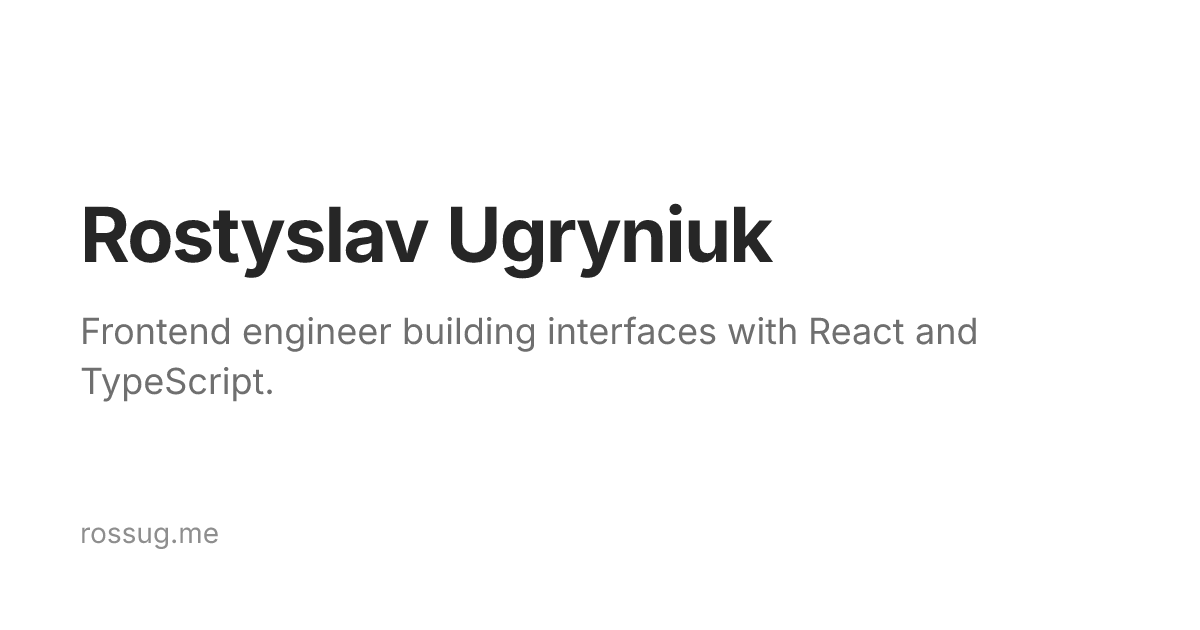
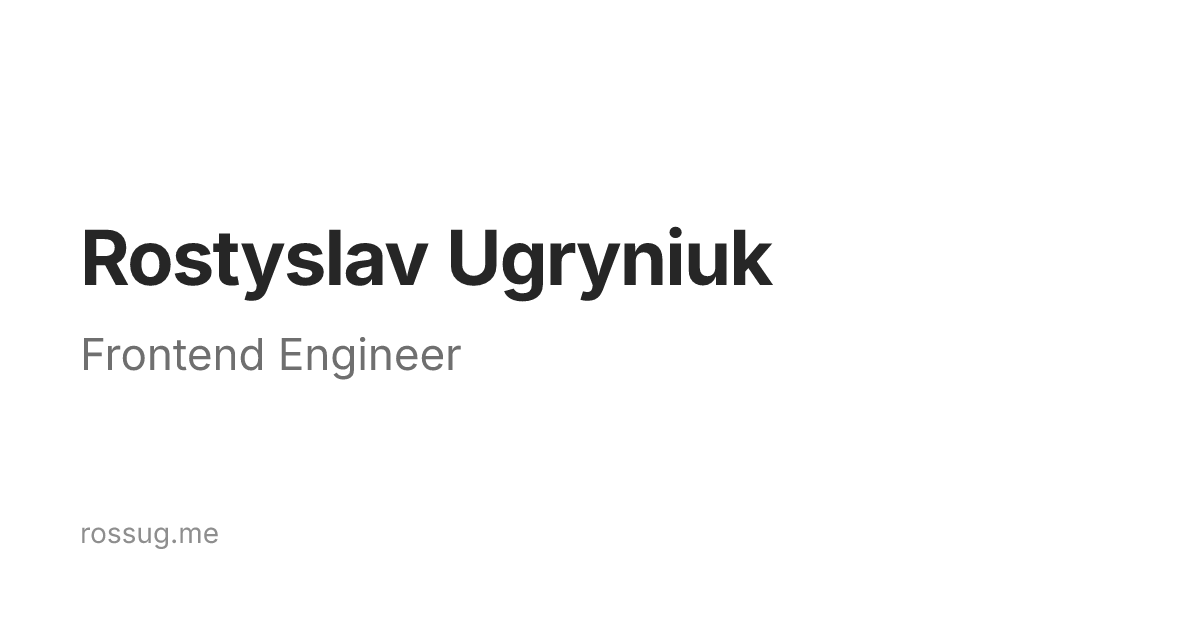
feat: simplify the default OG card to name and role

Changed region(s): [[0.0617, 0.3016, 0.6475, 0.4825], [0.0617, 0.4825, 0.8325, 0.6333]]

diff --git a/AGENTS.md b/AGENTS.md
@@ -70,7 +70,7 @@ Domain vocabulary (Post, Note, Category, Tag, Description, Bio) lives in `CONTEX
 ## Head, SEO and drafts
 
 - The document head lives in `src/components/BaseHead.astro`. Pages describe themselves through `Layout`'s `PageMeta` props (`title`, `description`, optional `image`, `type`, `publishedTime`, `noindex`); the title gets the site-name suffix and canonical, Open Graph and Twitter tags are generated from those props.
-- Posts use their hero image as the social image; everything else uses `public/og-default.png`. That card is a rendered image with the site tagline baked in, so re-render it by hand if the tagline in `src/data/site.ts` changes. `public/favicon.*` and `public/apple-touch-icon.png` are rendered from the same flower mark.
+- Posts use their hero image as the social image; everything else uses `public/og-default.png`. That card is a rendered image with the name, "Frontend Engineer" and the domain baked in, so re-render it by hand if any of those change. `public/favicon.*` and `public/apple-touch-icon.png` are rendered from the same flower mark.
 - `theme-color` values live in `src/data/site.ts` and must match `--color-page` (a test enforces it).
 - Posts and Notes accept `draft: true`: shown by `astro dev`, excluded from production pages, listings, RSS and the sitemap. Always read collections through `getSortedPosts` / `getSortedNotes`, never `getCollection` directly, so drafts stay filtered.
 
